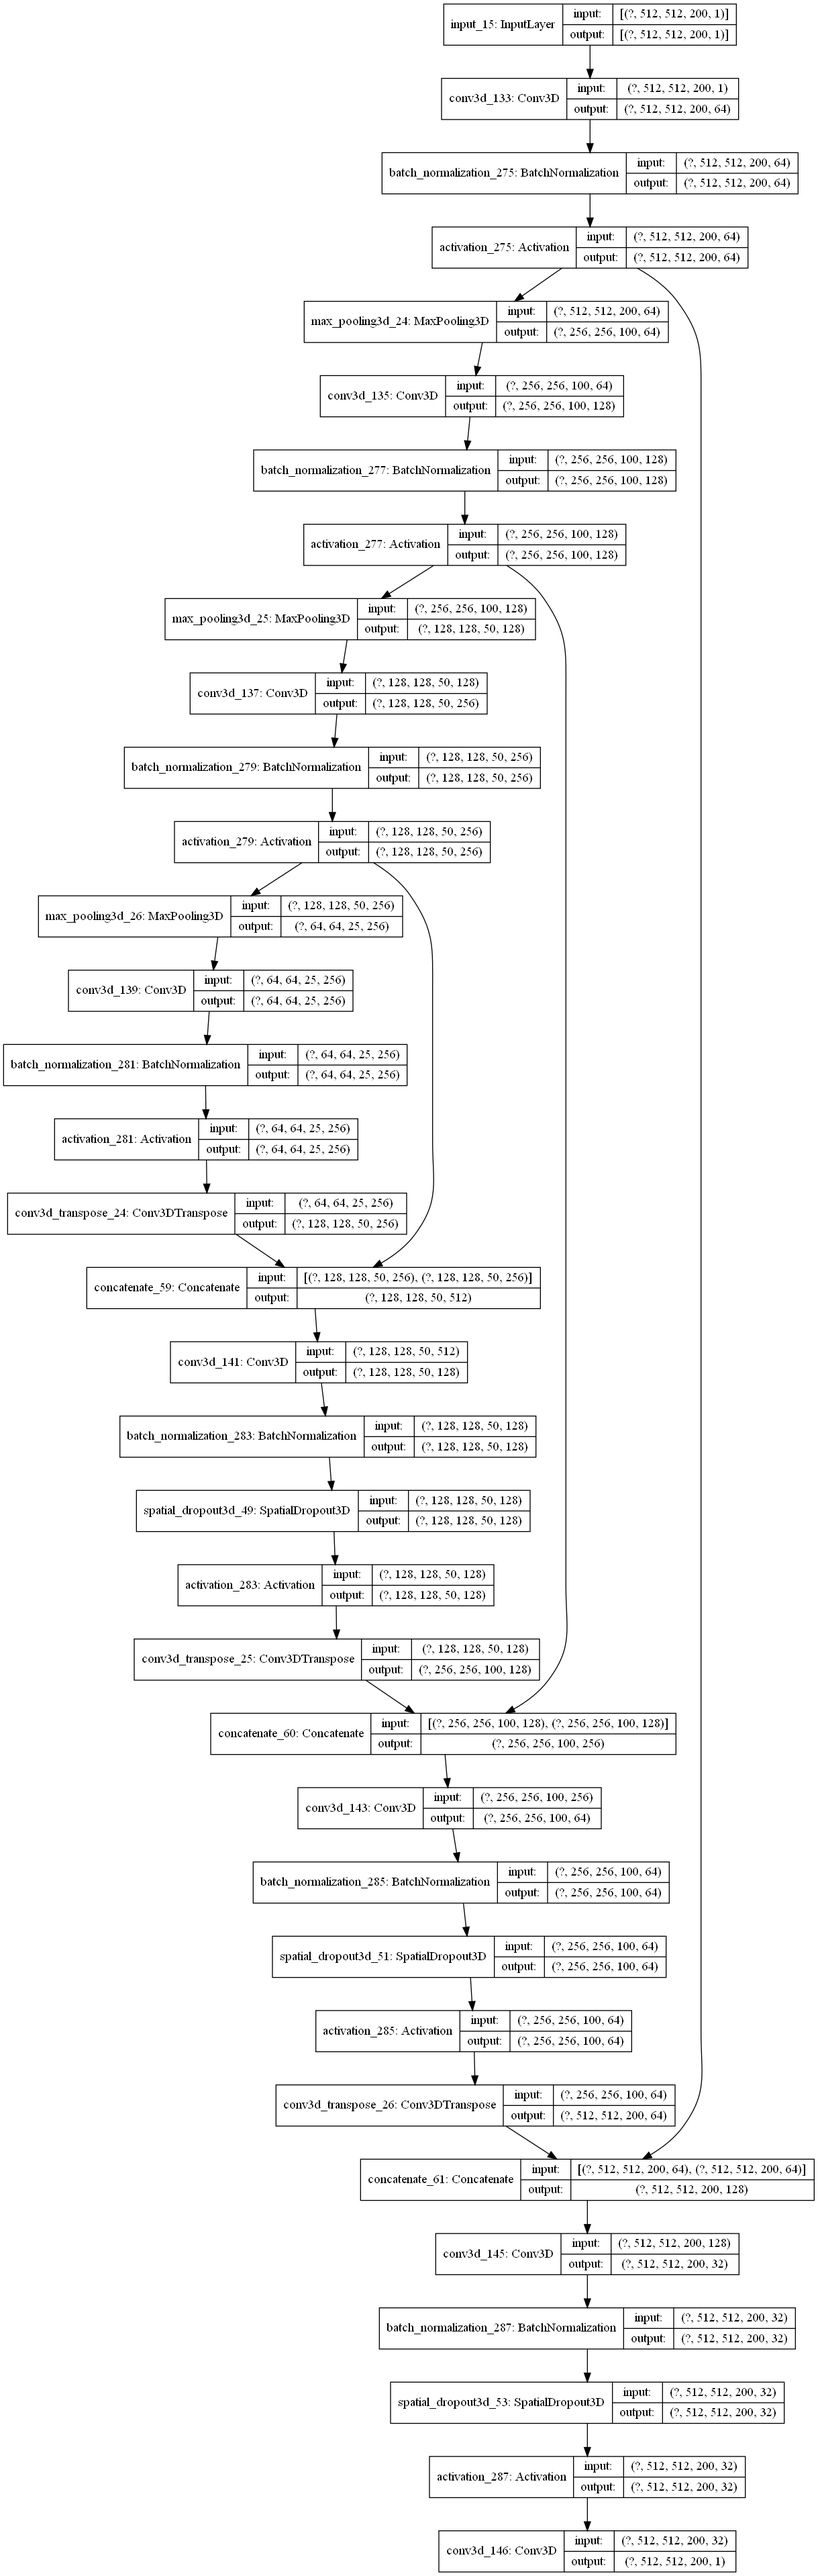
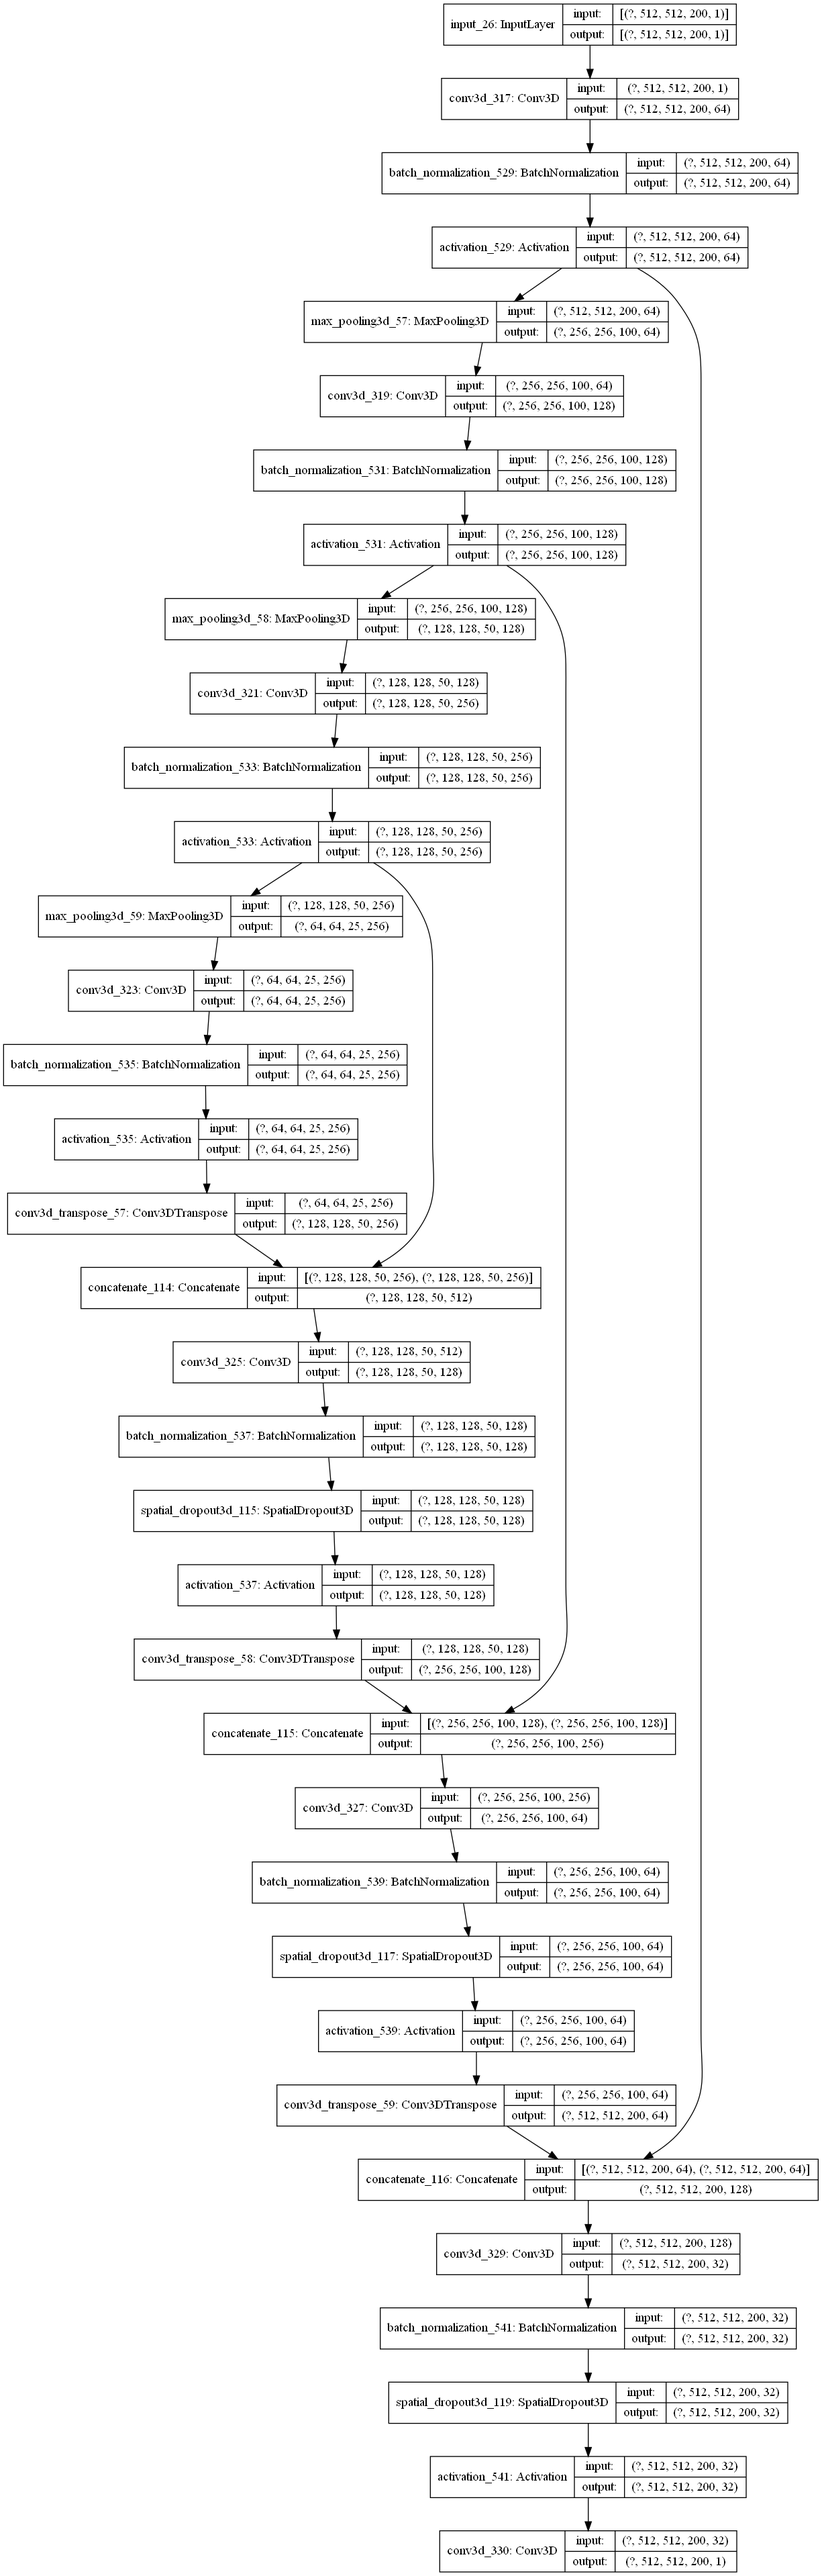
add orig input to 2nd unet input for cascaded unet

diff --git a/unet_custom/unet2d.py b/unet_custom/unet2d.py
@@ -10,13 +10,12 @@ from tensorflow.keras.layers import Input, Conv2D, MaxPooling2D, Dropout, concat
 
 def conv2d_block(inputs, n_filters, kernel_size = 3, padding = 'valid', res_connect = False):
     
-    x = Conv2D(n_filters, kernel_size, padding = padding, activation = 'relu')(inputs)
-    x = BatchNormalization()(x)
-    x = Activation("relu")(x)
+    x = inputs
+    for i in range(2):
+        x = Conv2D(n_filters, kernel_size, padding = padding, activation = 'relu')(inputs)
+        x = BatchNormalization()(x)
+        x = Activation("relu")(x)
     
-    x = Conv2D(n_filters, kernel_size, padding = padding, activation = 'relu')(x)
-    x = BatchNormalization()(x)
-    x = Activation("relu")(x)
     
     if res_connect:
         res = Conv2D(n_filters, kernel_size = 1, padding = padding, activation = 'relu')(inputs)
@@ -102,10 +101,16 @@ def unet2d(input_size, n_classes=1, dropout=0, out_activation='sigmoid', res_con
     return Model(inputs = inputs, outputs = outputs)
 
 def cascaded_unet2d(input_size, n_classes=1, dropout=0, out_activation='sigmoid', res_connect = False,
-           padding = 'valid', filter_size1 = [64, 128, 256, 512, 1024], filter_size2 = [32, 64, 128, 128]):
+           padding = 'valid', filter_size1 = [64, 128, 256, 512, 1024], filter_size2 = [32, 64, 128, 128], 
+           add_input = True):
     input1, output1 = unet2d_block(Input(input_size), n_classes, dropout, out_activation, res_connect,
            padding, filter_size1)
-    input2, output2 = unet2d_block(output1, n_classes, dropout, out_activation, res_connect,
+    if add_input:
+        input2 = add([input1, output1])
+    else:
+        input2 = output1
+    
+    input2, output2 = unet2d_block(input2, n_classes, dropout, out_activation, res_connect,
            padding, filter_size2)
     return Model(inputs = input1, outputs = [output1, output2])
 

diff --git a/unet_custom/unet3d.py b/unet_custom/unet3d.py
@@ -100,14 +100,21 @@ def unet3d(input_size, n_classes=1, out_activation='sigmoid', res_connect = Fals
     return Model(inputs = inputs, outputs = outputs)
 
 def cascaded_unet3d(input_size, n_classes=1, out_activation='sigmoid', res_connect = False,
-           padding = 'same', filter_size1 = [64, 128, 256, 256], filter_size2 = [64, 128, 256, 256], dropout=0.2):
+           padding = 'same', filter_size1 = [64, 128, 256, 256], filter_size2 = [64, 128, 256, 256], dropout=0.2,
+           add_input = True):
+    """ 
+    add_input adds original input to the output of the 1st unet and feed the added input to the 2nd unet
+    """
     
     inputs = Input(input_size)
     
     input1, output1 = unet_3dblock(inputs, n_classes, out_activation, res_connect,
            padding, filter_size1, dropout)
-    
-    _, output2 = unet_3dblock(output1, n_classes, out_activation, res_connect,
+    if add_input:
+        input2 = add([input1, output1])
+    else:
+        input2 = output1
+    _, output2 = unet_3dblock(input2, n_classes, out_activation, res_connect,
            padding, filter_size2, dropout)
 
     return Model(inputs = inputs, outputs = [output1, output2])
